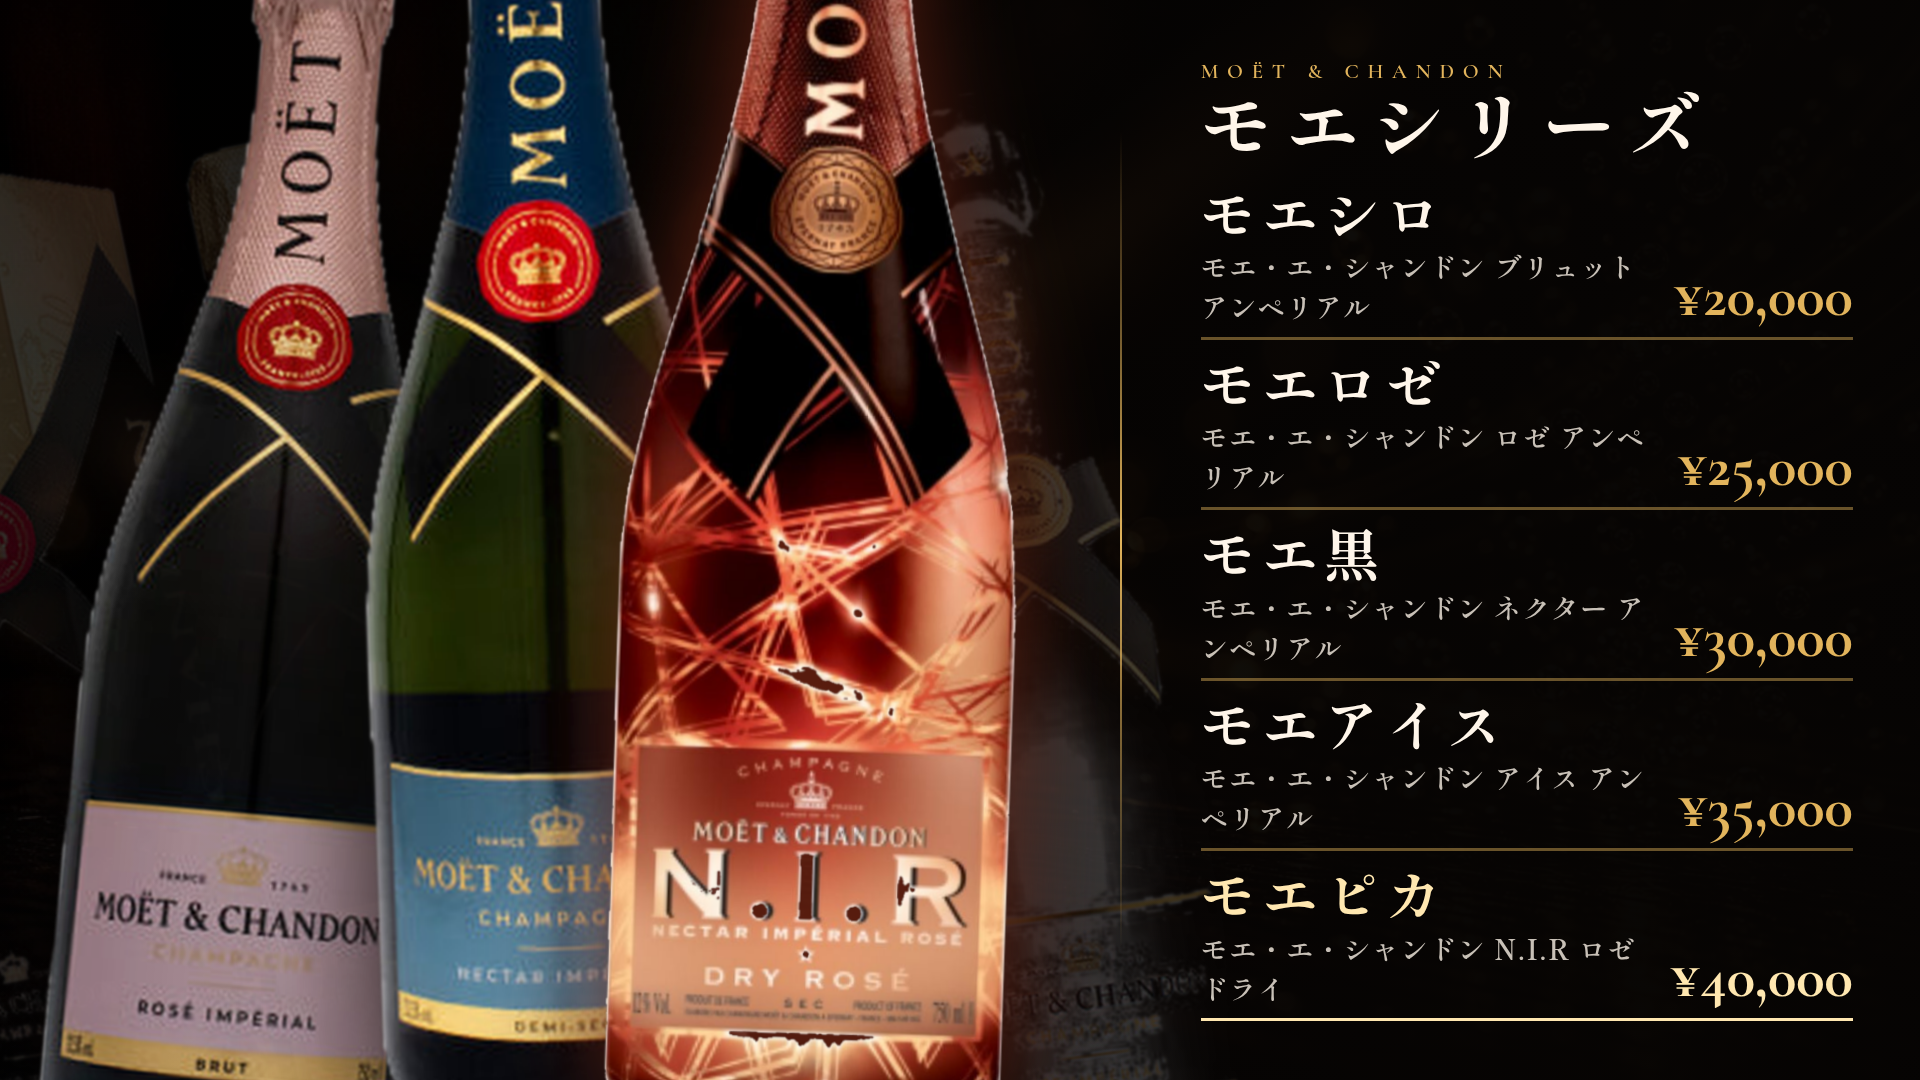
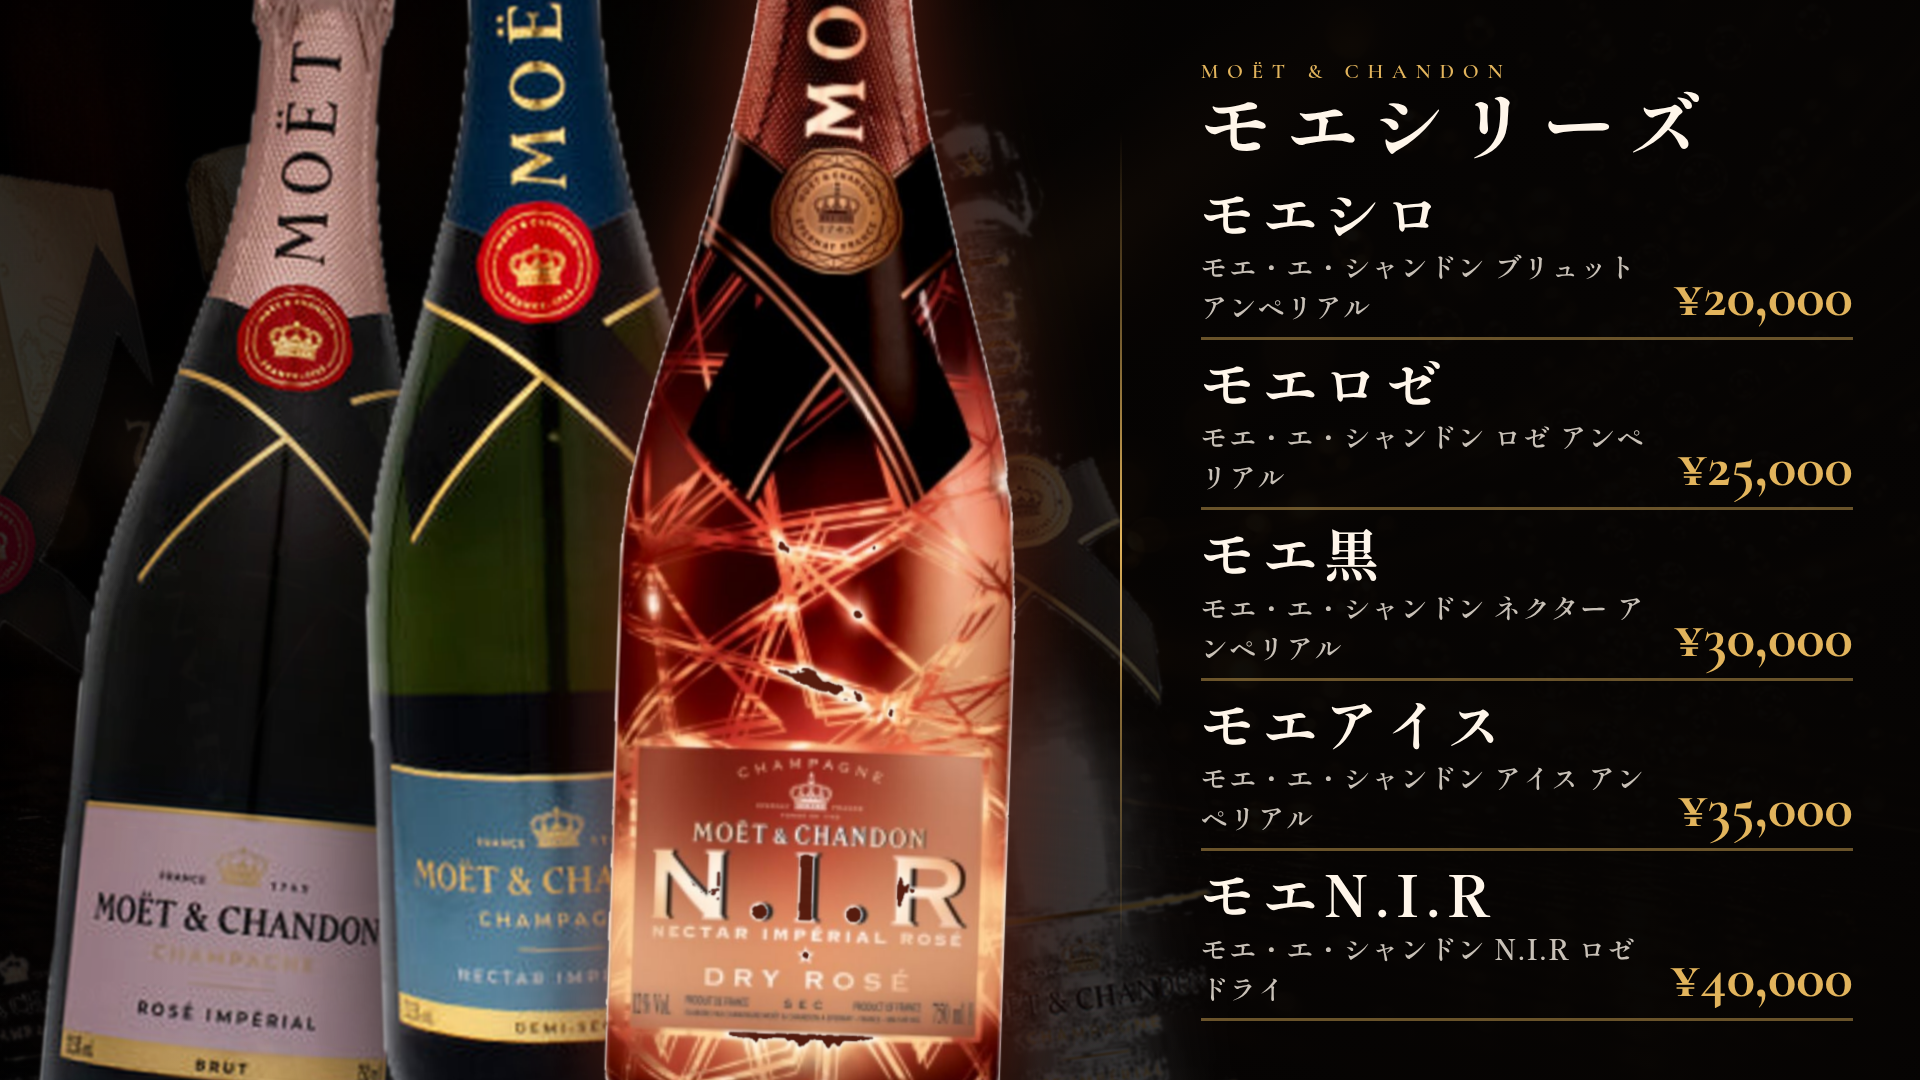
Apply NIR rename and equal text color on Design 19
User selected trio-focus (19); match other rows' color and rename to モエN.I.R.

diff --git a/designs/19-trio-focus.html b/designs/19-trio-focus.html
@@ -21,7 +21,7 @@
 <div class="panel">
 <p class="maison">MOËT &amp; CHANDON</p>
 <h1 class="title">モエシリーズ</h1>
-<div class="list"><div class="row"><div><p class="nick">モエシロ</p><p class="formal">モエ・エ・シャンドン ブリュット アンペリアル</p></div><p class="price">¥20,000</p></div><div class="row"><div><p class="nick">モエロゼ</p><p class="formal">モエ・エ・シャンドン ロゼ アンペリアル</p></div><p class="price">¥25,000</p></div><div class="row"><div><p class="nick">モエ黒</p><p class="formal">モエ・エ・シャンドン ネクター アンペリアル</p></div><p class="price">¥30,000</p></div><div class="row"><div><p class="nick">モエアイス</p><p class="formal">モエ・エ・シャンドン アイス アンペリアル</p></div><p class="price">¥35,000</p></div><div class="row is-hot"><div><p class="nick">モエピカ</p><p class="formal">モエ・エ・シャンドン N.I.R ロゼ ドライ</p></div><p class="price">¥40,000</p></div></div>
+<div class="list"><div class="row"><div><p class="nick">モエシロ</p><p class="formal">モエ・エ・シャンドン ブリュット アンペリアル</p></div><p class="price">¥20,000</p></div><div class="row"><div><p class="nick">モエロゼ</p><p class="formal">モエ・エ・シャンドン ロゼ アンペリアル</p></div><p class="price">¥25,000</p></div><div class="row"><div><p class="nick">モエ黒</p><p class="formal">モエ・エ・シャンドン ネクター アンペリアル</p></div><p class="price">¥30,000</p></div><div class="row"><div><p class="nick">モエアイス</p><p class="formal">モエ・エ・シャンドン アイス アンペリアル</p></div><p class="price">¥35,000</p></div><div class="row"><div><p class="nick">モエN.I.R</p><p class="formal">モエ・エ・シャンドン N.I.R ロゼ ドライ</p></div><p class="price">¥40,000</p></div></div>
 </div>
 </div>
 
